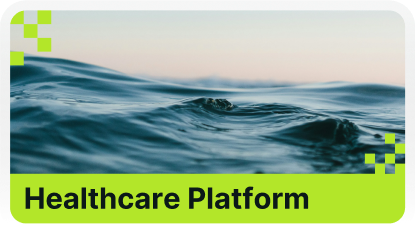
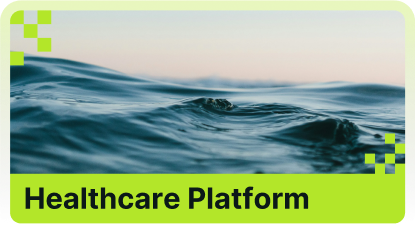
update

diff --git a/prototype.css b/prototype.css
@@ -4435,7 +4435,7 @@ body.recruiter-mode .recruiter-cases .folder-menu {
     transform-style: preserve-3d;
     will-change: transform;
     isolation: isolate;
-    transition: transform 0.28s cubic-bezier(0.22, 1, 0.36, 1), box-shadow 0.28s ease, border-color 0.28s ease;
+    transition: transform 0.3s cubic-bezier(0.22, 1, 0.36, 1), box-shadow 0.3s ease, border-color 0.3s ease, background-color 0.3s ease;
     margin: 0 auto;
     z-index: 2;
 }
@@ -4448,23 +4448,21 @@ body.recruiter-mode .recruiter-cases .folder-menu {
 .featured-card:hover {
     --card-hover-lift: -1px;
     --card-gold-glow: 1;
-    border-color: rgba(196, 196, 196, 0.58);
-    background: linear-gradient(180deg, rgba(252, 252, 252, 0.96) 0%, rgba(240, 240, 240, 0.94) 100%);
+    border-color: rgba(0, 0, 0, 0.1);
+    background: #ffffff;
     box-shadow:
-        0 18px 38px rgba(98, 98, 98, 0.12),
-        0 0 0 1px rgba(242, 242, 242, 0.72),
-        0 0 24px rgba(238, 238, 238, 0.42),
-        0 0 48px rgba(245, 245, 245, 0.28);
+        0 10px 24px rgba(16, 18, 24, 0.08),
+        0 2px 6px rgba(16, 18, 24, 0.05),
+        0 0 0 1px rgba(255, 255, 255, 0.82);
 }
 
 .featured-card:focus-visible {
-    border-color: rgba(196, 196, 196, 0.58);
-    background: linear-gradient(180deg, rgba(252, 252, 252, 0.96) 0%, rgba(240, 240, 240, 0.94) 100%);
+    border-color: rgba(0, 0, 0, 0.1);
+    background: #ffffff;
     box-shadow:
-        0 18px 38px rgba(98, 98, 98, 0.12),
-        0 0 0 1px rgba(242, 242, 242, 0.72),
-        0 0 24px rgba(238, 238, 238, 0.42),
-        0 0 48px rgba(245, 245, 245, 0.28);
+        0 10px 24px rgba(16, 18, 24, 0.08),
+        0 2px 6px rgba(16, 18, 24, 0.05),
+        0 0 0 1px rgba(255, 255, 255, 0.82);
 }
 
 .featured-card-ray-halo {
@@ -4478,12 +4476,14 @@ body.recruiter-mode .recruiter-cases .folder-menu {
     opacity: 0;
     z-index: 0;
     isolation: isolate;
-    transition: opacity 0.2s ease, transform 0.24s ease;
+    transition: opacity 0.34s cubic-bezier(0.22, 1, 0.36, 1), transform 0.38s cubic-bezier(0.22, 1, 0.36, 1), filter 0.34s ease;
     will-change: transform, opacity;
+    filter: saturate(0.9);
 }
 
 .featured-card-ray-halo.is-active {
     opacity: 1;
+    transform: translate(-50%, -50%) scale(1);
 }
 
 body.case-open .featured-card-ray-halo,
@@ -4501,23 +4501,25 @@ body.case-open .featured-card-ray-halo,
 
 .featured-card-ray-halo::before {
     background:
-        radial-gradient(circle at 50% 36%, rgba(255, 255, 255, 0.94) 0%, rgba(244, 244, 244, 0.9) 10%, rgba(220, 220, 220, 0.48) 20%, rgba(196, 196, 196, 0.16) 32%, transparent 52%),
-        linear-gradient(180deg, transparent 0%, rgba(246, 246, 246, 0.08) 16%, rgba(224, 224, 224, 0.18) 32%, rgba(204, 204, 204, 0.08) 54%, transparent 76%),
-        linear-gradient(170deg, transparent 22%, rgba(242, 242, 242, 0.14) 32%, transparent 48%),
-        linear-gradient(190deg, transparent 22%, rgba(242, 242, 242, 0.14) 32%, transparent 48%);
-    filter: blur(22px);
-    transform-origin: 50% 36%;
-    animation: featured-halo-rays 2.2s ease-in-out infinite alternate;
+        linear-gradient(180deg, transparent 0 18%, rgba(255, 255, 255, 0.5) 24%, rgba(255, 255, 255, 0) 34%),
+        linear-gradient(164deg, transparent 25%, rgba(255, 255, 255, 0.34) 33%, transparent 43%),
+        linear-gradient(196deg, transparent 25%, rgba(255, 255, 255, 0.34) 33%, transparent 43%),
+        linear-gradient(148deg, transparent 30%, rgba(255, 255, 255, 0.22) 38%, transparent 47%),
+        linear-gradient(212deg, transparent 30%, rgba(255, 255, 255, 0.22) 38%, transparent 47%);
+    filter: blur(10px);
+    transform-origin: 50% 34%;
+    animation: featured-halo-rays 1.8s cubic-bezier(0.42, 0, 0.58, 1) infinite alternate;
 }
 
 .featured-card-ray-halo::after {
     background:
-        radial-gradient(circle at 50% 32%, rgba(255, 255, 255, 0.86) 0 2px, rgba(236, 236, 236, 0.7) 3px, transparent 8px),
-        radial-gradient(circle at 44% 38%, rgba(244, 244, 244, 0.28) 0 1.6px, transparent 5px),
-        radial-gradient(circle at 56% 38%, rgba(244, 244, 244, 0.28) 0 1.6px, transparent 5px);
-    filter: blur(0.8px);
-    transform-origin: 50% 32%;
-    animation: featured-halo-sparkles 1.2s ease-in-out infinite alternate;
+        radial-gradient(circle at 50% 28%, rgba(255, 255, 255, 0.8) 0 1.2px, transparent 4px),
+        linear-gradient(156deg, transparent 36%, rgba(255, 255, 255, 0.42) 40%, transparent 45%),
+        linear-gradient(204deg, transparent 36%, rgba(255, 255, 255, 0.42) 40%, transparent 45%),
+        linear-gradient(180deg, transparent 34%, rgba(255, 255, 255, 0.3) 39%, transparent 46%);
+    filter: blur(0.4px);
+    transform-origin: 50% 28%;
+    animation: featured-halo-sparkles 1.5s cubic-bezier(0.42, 0, 0.58, 1) infinite alternate;
 }
 
 @keyframes featured-halo-rays {
@@ -4544,7 +4546,7 @@ body.case-open .featured-card-ray-halo,
 
 .featured-card:hover .folder-body,
 .featured-card:focus-visible .folder-body {
-    background: linear-gradient(180deg, rgba(252, 252, 252, 0.98) 0%, rgba(242, 242, 242, 0.95) 100%);
+    background: #ffffff;
 }
 
 .folder-top {
@@ -4599,8 +4601,8 @@ body.case-open .featured-card-ray-halo,
 
 .featured-card:hover .folder-top img,
 .featured-card:focus-visible .folder-top img {
-    transform: scale(1.02);
-    filter: saturate(1.04) brightness(1.03);
+    transform: scale(1.016);
+    filter: saturate(1.02) brightness(1.01);
 }
 
 .folder-head {